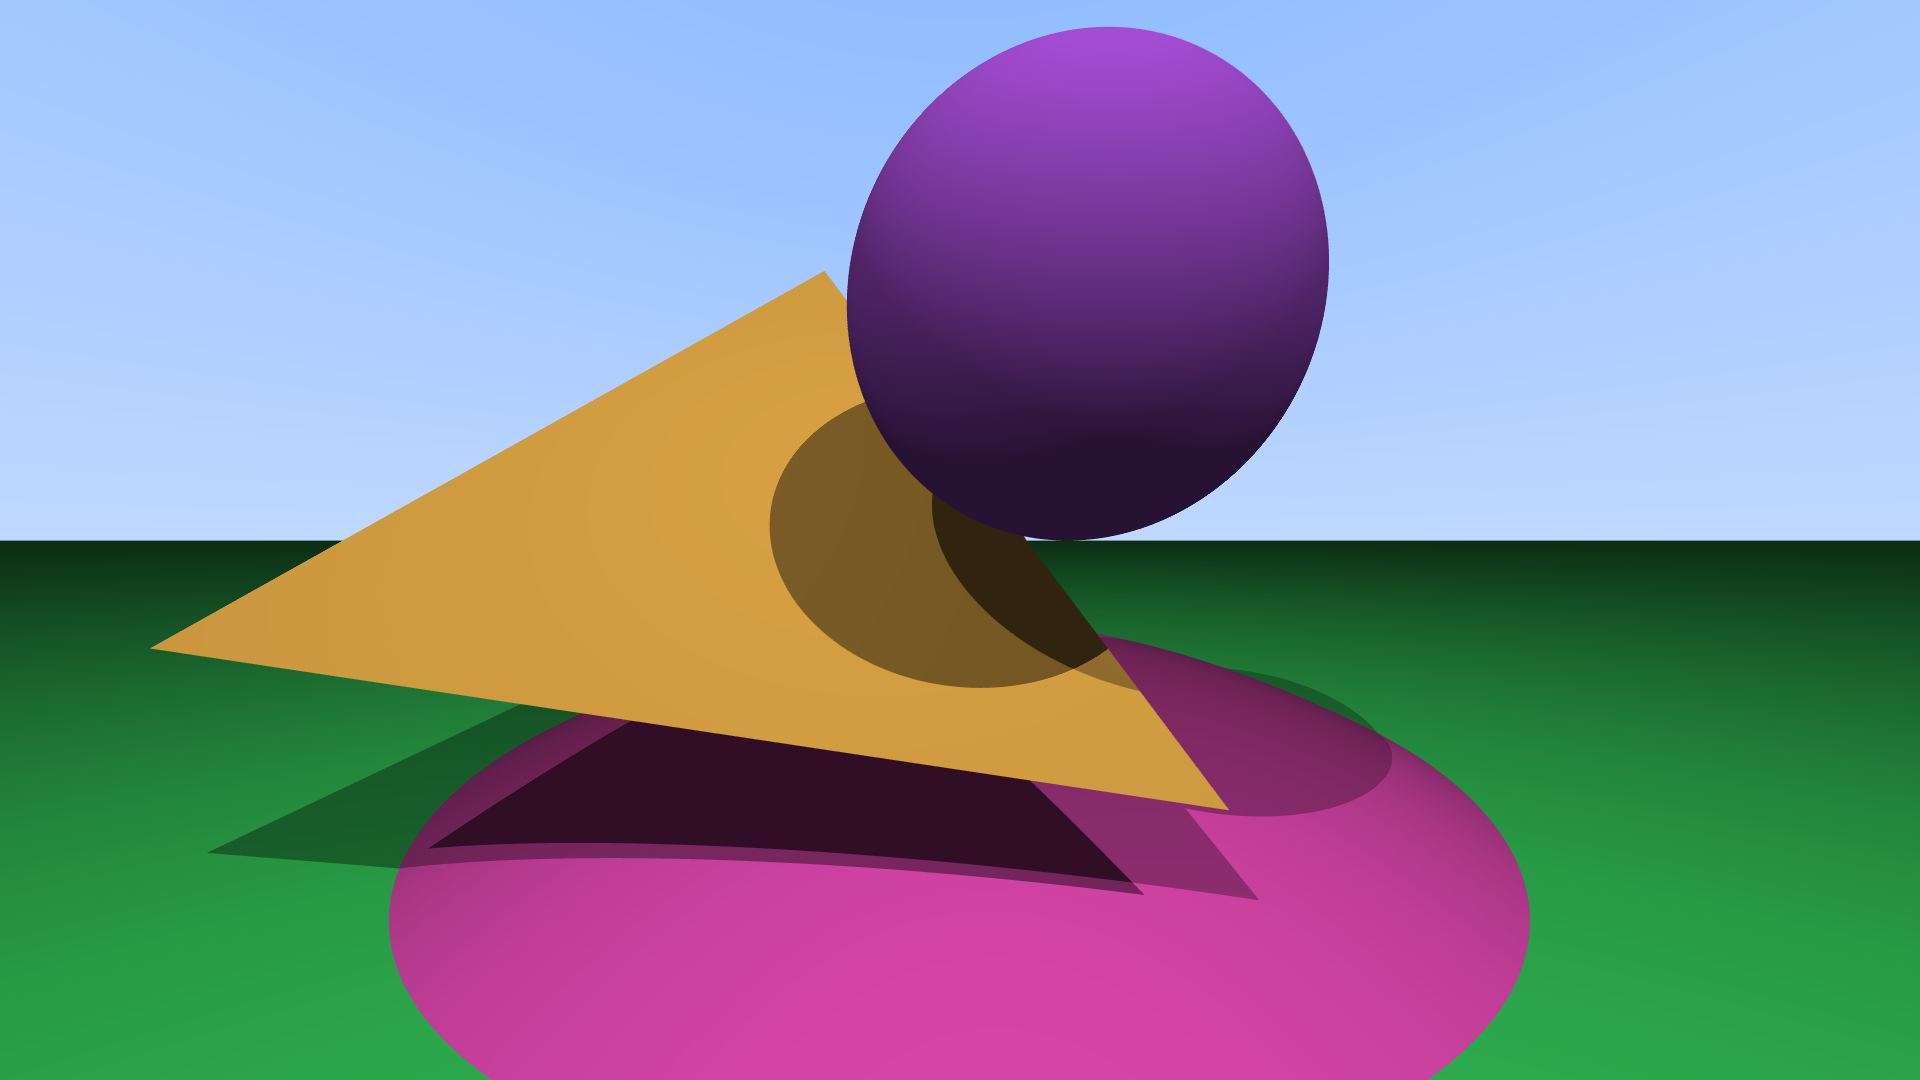
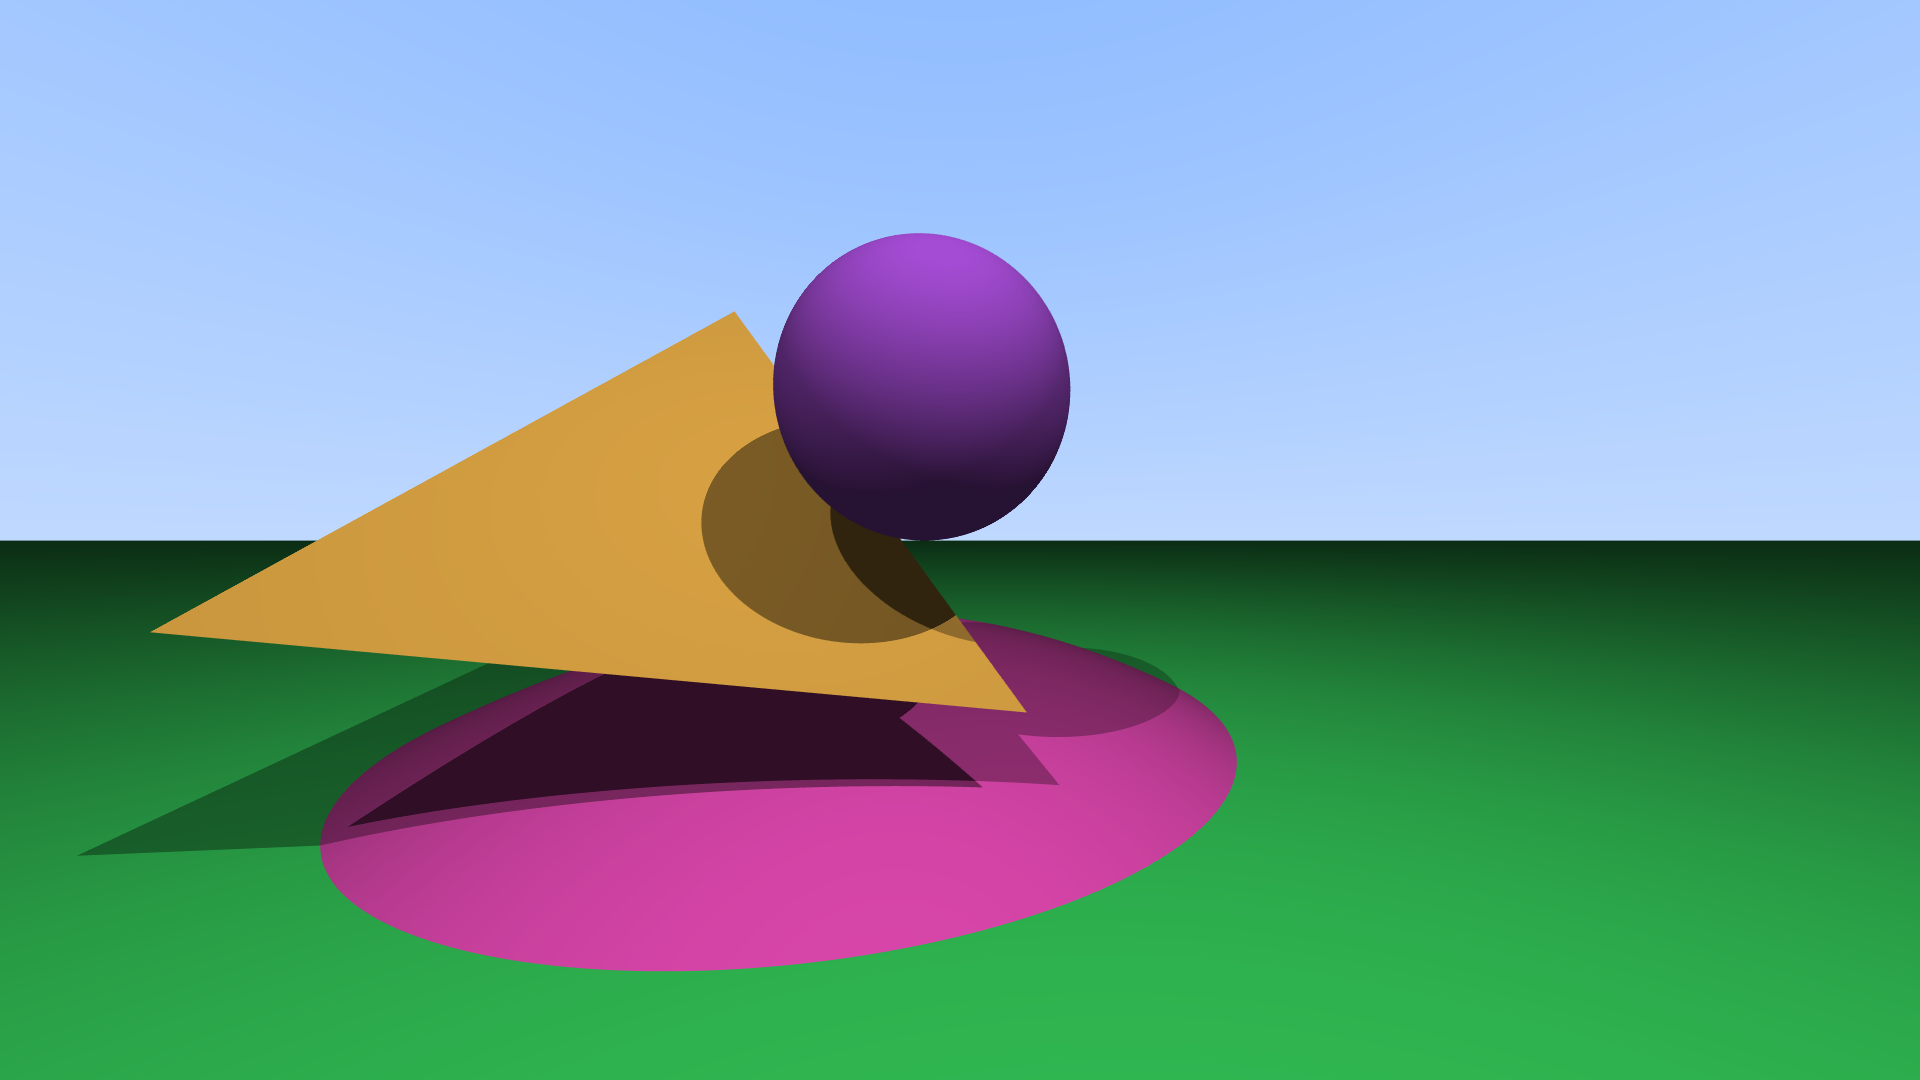
update readme, add assets for readme

diff --git a/src/main.rs b/src/main.rs
@@ -42,9 +42,9 @@ const CAMERA_TYPE: CameraProjection = CameraProjection::Perspective;
 
 fn main() {
     // configure camera position
-    let mut camera_origin: Vec3 = glm::vec3(0.0, 0.0, 0.0);
-    let mut camera_lookat: Vec3 = glm::vec3(0.0, 0.0, -1.0);
-    let camera_up: Vec3 = glm::vec3(0.0, 1.0, 1.0);
+    let camera_origin: Vec3 = glm::vec3(0.0, 0.0, 0.5);
+    let camera_lookat: Vec3 = glm::vec3(0.3, 0.0, -1.0);
+    let camera_up: Vec3 = glm::vec3(0.0, 1.0, 0.0);
 
     // create a camera
     let ortho = &OrthographicCamera::new(
@@ -54,7 +54,7 @@ fn main() {
         90.0,
         IMAGE_WIDTH as f32 / IMAGE_HEIGHT as f32,
     );
-    let mut perspective = &PerspectiveCamera::new(
+    let perspective = &PerspectiveCamera::new(
         camera_origin,
         camera_lookat,
         camera_up,
@@ -162,8 +162,7 @@ fn main() {
         }
         *pixel = vec3_to_rgb(pixel_color);
     }
-
-    img.save(format!("out.png")).unwrap();
+    img.save("out.png").unwrap();
 }
 
 fn color(r: u8, g: u8, b: u8) -> Vec3 {

diff --git a/README.md b/README.md
@@ -1,8 +1,35 @@
 # Ray Tracer for CS 419
 
-This is a basic ray tracer for production computer graphics (CS 419) at UIUC.
-It implements intersection of rays with spheres, planes, and triangles. The
-camera is movable and can use either orthographic or perspective projections.
+![Animated Sample](assets/animation.gif)
 
-Current output:
-![out.png](out.png)
+## Project
+
+This is a basic ray tracer for production computer graphics (CS 419) at UIUC. It implements intersection of rays with spheres, planes, and triangles. The camera is movable and can use either orthographic or perspective projections. Please explore the code and play with it; all configuration of the objects, lights, and cameras is done in the main file.
+
+## Installation and Usage
+
+Install the [Rust toolchain](https://www.rust-lang.org/tools/install) if you don't already have it. Then all you need to do is run `cargo run --release`. Cargo will install necessary dependencies, build the project, and run it. Use the release flag; without the compiler optimizations, the ray tracer is an order of magnitude slower.
+
+## Samples
+
+### Perspective Camera
+
+There is slight distortion due to the perspective, but we get a sense of a physical scene, with the ground plane extending infinitely out to a horizon.
+
+We can also see here that this ray tracer allows for any number of light sources (only two shown), and shading and shadows interact as expected.
+
+![Perspective Sample](assets/perspective_sample.png)
+
+### Orthographic Camera
+
+Both spheres appear perfectly circular, and the ground plane is invisible, as it is parallel to the camera's view direction.
+
+![Orthographic Sample](assets/orthographic_sample.png)
+
+## References
+
+For the basic structure and function of the ray tracer, I follow Peter Shirley's [Ray Tracing in One Weekend](https://raytracing.github.io/books/RayTracingInOneWeekend.html).
+
+To accomplish ray-triangle intersection, I followed the Möller–Trumbore ray-triangle intersection algorithm, with an example implementation on [Wikipedia](https://en.wikipedia.org/wiki/Möller–Trumbore_intersection_algorithm).
+
+My implementation of multi-jittered sampling is adapted from [Correlated Multi-Jittered Sampling](https://graphics.pixar.com/library/MultiJitteredSampling/paper.pdf) by Andrew Kensler of Pixar.
